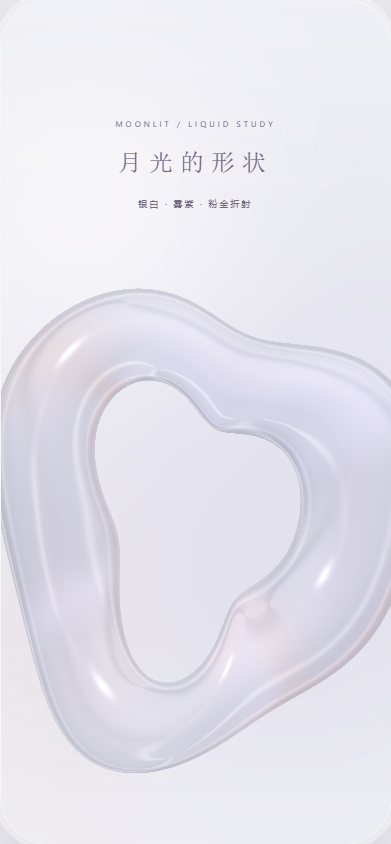
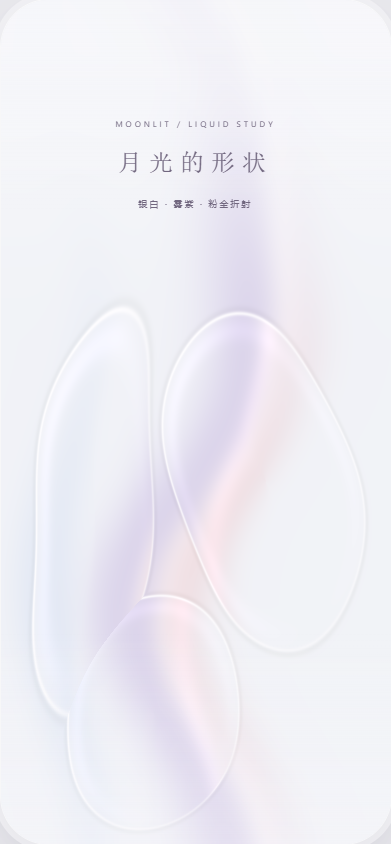
design: lighten moonlit glass into flowing translucent light sheets

diff --git a/mobile-design-reference/g-moonlight.js b/mobile-design-reference/g-moonlight.js
@@ -10,85 +10,58 @@ const fragment=`
 precision highp float;
 uniform vec2 resolution;
 uniform float phase;
-const float PI=3.14159265359;
-mat2 rotate(float a){float c=cos(a),s=sin(a);return mat2(c,-s,s,c);}
-// A sculpted, uneven toroidal sheet. The opening and folded rim provide
-// recognizable glass curvature rather than a set of blurred colour blobs.
-float field(vec3 p){
- p.y+=.52;
- p.xy=rotate(-.30+.06*sin(phase))*p.xy;
- p.y/=1.38;
- p.x+=.10*sin(p.y*3.+phase);
- float a=atan(p.y,p.x);
- float ring=.72+.12*sin(a*3.+.4+ .22*sin(phase))+.065*cos(a*2.-.3);
- float thick=.235+.065*sin(a*2.+1.+.3*cos(phase));
- float z=p.z+.16*sin(a*2.+.7)+.07*cos(a*3.+phase);
- return (length(vec2(length(p.xy)-ring,z*.84))-thick)*.72;
+mat2 rot(float a){float c=cos(a),s=sin(a);return mat2(c,-s,s,c);}
+float sheet(vec2 p,vec2 center,vec2 size,float angle){
+ p=rot(angle)* (p-center);
+ p.x+=.065*sin(p.y*2.8+phase)*sin(p.y*1.4+.6);
+ return (length(p/size)-1.)*min(size.x,size.y);
 }
-vec3 normalAt(vec3 p){vec2 e=vec2(.002,0.);return normalize(vec3(field(p+e.xyy)-field(p-e.xyy),field(p+e.yxy)-field(p-e.yxy),field(p+e.yyx)-field(p-e.yyx)));}
-vec3 backdrop(vec2 p){
- vec3 c=vec3(.936,.941,.962);
- float violet=exp(-dot((p-vec2(.45,-.5))*vec2(.7,.55),(p-vec2(.45,-.5))*vec2(.7,.55)));
- c=mix(c,vec3(.84,.82,.90),violet*.48);
- float pearl=exp(-dot(p-vec2(-.55,1.1),p-vec2(-.55,1.1))*1.4);
- c=mix(c,vec3(.989,.982,.991),pearl*.75);
- float gold=exp(-dot((p-vec2(-.7,-1.3))*vec2(2.,1.),(p-vec2(-.7,-1.3))*vec2(2.,1.)));
- c=mix(c,vec3(.925,.849,.828),gold*.27);
- return c;
+float surface(vec2 p){
+ float a=sheet(p,vec2(-.50,-.46),vec2(.30,1.04),-.13+.025*sin(phase));
+ float b=sheet(p,vec2(.37,-.30),vec2(.46,.87),.18+.03*cos(phase));
+ float c=sheet(p,vec2(-.20,-1.49),vec2(.44,.60),-.32+.025*cos(phase));
+ return min(a,min(b,c));
 }
-// Procedural studio illumination: broad pearl panels, a narrow silver strip,
-// and a small rose/champagne panel; all reflected on the curved surface.
-vec3 environment(vec3 r){
- float a=atan(r.z,r.x),h=r.y;
- vec3 c=mix(vec3(.51,.54,.65),vec3(.98,.976,.99),smoothstep(-.7,.7,h));
- float strip=pow(.5+.5*cos(a*3.+h*2.+.09*sin(phase)),18.);
- c=mix(c,vec3(1.),strip*.85);
- float dark=pow(.5+.5*cos(a*2.-h*3.+1.),10.);
- c=mix(c,vec3(.40,.42,.53),dark*.46);
- float rose=exp(-pow((a+.9)*2.2,2.)-pow((h+.35)*2.,2.));
- c=mix(c,vec3(.92,.76,.72),rose*.80);
- float lavender=exp(-pow((a-1.8)*1.4,2.)-pow(h*1.7,2.));
- c=mix(c,vec3(.76,.71,.85),lavender*.60);
+vec3 lightField(vec2 p){
+ vec3 c=vec3(.946,.951,.969);
+ float path=.20+.29*sin(p.y*1.65+.23*sin(phase))+.08*cos(p.y*3.3-.17*cos(phase));
+ float d=p.x-path;
+ float violet=exp(-pow((d+.16)*4.1,2.));
+ float silver=exp(-pow((d-.04)*10.,2.));
+ float rose=exp(-pow((d-.11)*6.5,2.))*exp(-pow((p.y+.65)*.85,2.));
+ c=mix(c,vec3(.77,.71,.87),violet*.48);
+ c=mix(c,vec3(.98,.967,.983),silver*.61);
+ c=mix(c,vec3(.94,.78,.77),rose*.36);
+ float left=-.66+.14*sin(p.y*2.1+.20*cos(phase));
+ float fold=exp(-pow((p.x-left)*7.,2.))*exp(-pow((p.y+1.)*.7,2.));
+ c=mix(c,vec3(.80,.85,.94),fold*.36);
  return c;
 }
 void main(){
- vec2 uv=(gl_FragCoord.xy*2.-resolution.xy)/resolution.y;
- uv*=2.15;
- vec3 color=backdrop(uv);
- vec3 origin=vec3(uv,3.6),direction=vec3(0.,0.,-1.);
- float travel=0.;bool hit=false;
- for(int i=0;i<64;i++){vec3 p=origin+direction*travel;float d=field(p);if(d<.0015){hit=true;break;}travel+=d*.9;if(travel>6.)break;}
- if(hit){
-  vec3 p=origin+direction*travel,n=normalAt(p);
-  float facing=clamp(dot(n,-direction),0.,1.);
-  float fresnel=.045+.955*pow(1.-facing,3.6);
-  vec3 refracted=refract(direction,n,1./1.46);
-  float thickness=.32+.30*facing;
-  vec2 lens=uv+refracted.xy*(.65+thickness)+n.xy*.10;
-  vec3 transmission=backdrop(lens);
-  // Rear-surface reflection and a softly distorted pearl ribbon inside glass.
-  vec3 inside=environment(normalize(vec3(refracted.xy*.7,-refracted.z)));
-  transmission=mix(transmission,inside,.23);
-  float ribbon=exp(-pow((lens.x*.85+lens.y*.52+.37+.025*sin(phase))*8.,2.));
-  transmission=mix(transmission,vec3(.93,.80,.77),ribbon*.32);
-  float innerSilver=pow(.5+.5*sin(lens.y*4.+lens.x*2.),12.);
-  transmission+=vec3(.045,.045,.06)*innerSilver;
-  vec3 reflected=environment(reflect(direction,n));
-  color=mix(transmission,reflected,.16+fresnel*.66);
-  float rim=pow(1.-facing,8.);
-  float innerEdge=exp(-pow((facing-.32)*18.,2.));
-  color=mix(color,vec3(.71,.70,.79),innerEdge*.20);
-  float seam=exp(-pow((facing-.48)*24.,2.));
-  color+=vec3(.055,.049,.045)*seam;
-  color=mix(color,vec3(.99,.985,1.),rim*.72);
-  vec3 light=normalize(vec3(-.65,.85,1.4));
-  float spec=pow(max(dot(reflect(direction,n),light),0.),90.);
-  color+=vec3(.17)*spec;
-  float contour=pow(1.-facing,2.);
-  color-=vec3(.15,.14,.13)*contour*(1.-rim);
- }
- // Subtle vignette for spatial depth, without a full-screen blur overlay.
- color-=.018*pow(length(uv)*.32,2.);
+ vec2 p=(gl_FragCoord.xy*2.-resolution.xy)/resolution.y*2.15;
+ vec3 color=lightField(p);
+ float d=surface(p);
+ vec2 e=vec2(.003,0.);
+ vec2 grad=normalize(vec2(surface(p+e.xy)-surface(p-e.xy),surface(p+e.yx)-surface(p-e.yx)));
+ float cover=1.-smoothstep(-.002,.005,d);
+ // Thin optical skin: essentially clear centres, stronger refraction only
+ // at the curved edges. There is no opaque mass or thick toroidal body.
+ float bend=exp(-max(-d,0.)*9.);
+ vec2 lens=p+grad*(.025+.115*bend)+vec2(.018*sin(p.y*3.+phase),0.);
+ vec3 through=lightField(lens);
+ color=mix(color,through,cover*.82);
+ float innerGlow=exp(-pow((d+.045)*34.,2.));
+ float edge=exp(-pow(d*185.,2.));
+ float shade=exp(-pow((d-.011)*100.,2.));
+ float illumination=.5+.5*dot(grad,normalize(vec2(-.6,.8)));
+ color-=vec3(.08,.078,.09)*shade*.34;
+ color=mix(color,vec3(1.,.995,1.),edge*(.40+.48*illumination));
+ color+=vec3(.036,.029,.04)*innerGlow*cover*illumination;
+ // A refracted ribbon of light inside each transparent sheet.
+ float streak=exp(-pow((lens.x-.23-.27*sin(lens.y*1.65+.23*sin(phase)))*15.,2.));
+ color+=vec3(.034,.02,.027)*streak*cover;
+ float top=smoothstep(.4,1.9,p.y);
+ color=mix(color,vec3(.967,.970,.981),top*.8);
  gl_FragColor=vec4(clamp(color,0.,1.),1.);
 }`;
 function shader(type,source){const s=gl.createShader(type);gl.shaderSource(s,source);gl.compileShader(s);if(!gl.getShaderParameter(s,gl.COMPILE_STATUS))throw Error(gl.getShaderInfoLog(s));return s;}

diff --git a/mobile-design-reference/g-moonlight.html b/mobile-design-reference/g-moonlight.html
@@ -18,7 +18,7 @@
 <aside class="editorial"><p class="eyebrow">YEXUAN / REVERIE</p><h1>冷白月光<span>Liquid Glass</span></h1><p class="intro">将月光，留在掌心。<br>一场轻盈、安静的梦境。</p><div class="palette" aria-label="月光银白、浅雾紫、冷灰蓝、玫瑰金"><i></i><i></i><i></i><i></i></div><p class="edition">VISUAL STUDY &nbsp; / &nbsp; 07<br>独立视觉概念 · 无真实连接</p></aside>
 <section class="device" aria-label="叶瑄梦境聊天视觉样机">
 <canvas id="liquid" aria-label="缓慢流动的冷白月光玻璃背景"></canvas>
-<div class="fallback" aria-hidden="true"><svg viewBox="0 0 390 844" preserveAspectRatio="xMidYMid slice"><defs><linearGradient id="body" x1="0" y1="0" x2="1" y2="1"><stop stop-color="#fff"/><stop offset=".32" stop-color="#cfc7de" stop-opacity=".45"/><stop offset=".52" stop-color="#faf9fc"/><stop offset=".72" stop-color="#e8c9c5" stop-opacity=".6"/><stop offset="1" stop-color="#bac8d9"/></linearGradient></defs><path d="M230 236C393 214 418 367 352 456C296 522 366 615 283 730C213 822 21 739 33 615C44 519 147 554 98 429C65 333 129 235 230 236Z" fill="url(#body)" stroke="#fff" stroke-width="2"/><path d="M241 251C368 256 394 364 323 456C272 520 328 641 260 717" fill="none" stroke="#fff" stroke-opacity=".7" stroke-width="8"/></svg></div>
+<div class="fallback" aria-hidden="true"><svg viewBox="0 0 390 844" preserveAspectRatio="xMidYMid slice"><defs><linearGradient id="body" x1="0" y1="0" x2="1" y2="1"><stop stop-color="#fff"/><stop offset=".32" stop-color="#cfc7de" stop-opacity=".45"/><stop offset=".52" stop-color="#faf9fc"/><stop offset=".72" stop-color="#e8c9c5" stop-opacity=".6"/><stop offset="1" stop-color="#bac8d9"/></linearGradient></defs><ellipse cx="105" cy="514" rx="52" ry="204" transform="rotate(7 105 514)" fill="url(#body)" fill-opacity=".2" stroke="#fff" stroke-opacity=".8" stroke-width="1"/><ellipse cx="266" cy="485" rx="88" ry="172" transform="rotate(-12 266 485)" fill="url(#body)" fill-opacity=".23" stroke="#fff" stroke-opacity=".8" stroke-width="1"/><ellipse cx="154" cy="710" rx="75" ry="110" transform="rotate(15 154 710)" fill="url(#body)" fill-opacity=".25" stroke="#fff" stroke-opacity=".8" stroke-width="1"/></svg></div>
 <div class="ambient" aria-hidden="true"></div>
 <div class="phone-ui" id="phoneUI">
 <div class="statusbar"><span>9:41</span><div><svg viewBox="0 0 18 12" class="signal" aria-hidden="true"><path d="M1 9v2h2V9zm4-3v5h2V6zm4-3v8h2V3zm4-3v11h2V0z" fill="currentColor" stroke="none"/></svg><svg viewBox="0 0 18 14" aria-hidden="true"><path d="M2 5a11 11 0 0 1 14 0M5 8a6 6 0 0 1 8 0M8 11h2"/></svg><span class="battery"></span></div></div>

diff --git a/mobile-design-reference/moonlight-README.md b/mobile-design-reference/moonlight-README.md
@@ -4,9 +4,9 @@
 
 右侧（手机右上）可切换纯背景、暂停流动。气泡按压缩放，卡片可切换状态，输入聚焦时玻璃边缘增亮。输入和发送仅提供视觉反馈，不联网、不存储、不生成消息。
 
-背景使用 WebGL SDF 曲面、光线步进、法线、Fresnel、折射环境采样和局部珍珠反射。前景卡片单独使用 backdrop-filter，文字深灰紫，不对整屏做模糊。24 秒相位循环；最多 24 帧/秒，分辨率上限 420 像素宽。页面隐藏、系统减少动态或手动暂停时停止渲染。无外部图片、字体或付费素材。WebGL 不可用时显示静态 SVG 降级。
+背景按用户提供的表盘参考修订：WebGL 二维有机曲面距离场、边缘梯度法线、透明薄层的 UV 折射采样、连续雾紫/粉金光带与细银白边缘。去除旧版厚重环状实体；不再采用三维光线步进。前景卡片单独使用 backdrop-filter，文字深灰紫，不对整屏做模糊。24 秒相位循环；最多 24 帧/秒，分辨率上限 420 像素宽。页面隐藏、系统减少动态或手动暂停时停止渲染。无外部图片、字体或付费素材。WebGL 不可用时显示静态 SVG 降级。
 
-光学限制：程序环境透射近似，不是物理路径追踪，没有真实多次折射、完整背面光线追踪或物理焦散。前景是背景模糊与边缘高光，没有 Apple 原生透镜重映射。参考原则：https://developer.apple.com/videos/play/wwdc2025/219/
+光学限制：二维曲面光场透射近似，不是物理路径追踪，没有真实多次折射、完整背面光线追踪或物理焦散。前景是背景模糊与边缘高光，没有 Apple 原生透镜重映射。参考原则：https://developer.apple.com/videos/play/wwdc2025/219/
 
 验收：2026-10-10 Chrome headless / SwiftShader，file 协议实际渲染并目视检查截图。validation.json：零页面错误、零外部请求；320/360/390/430 无横向溢出；减少动态时截图不变，恢复后变化；纯背景下聊天层 inert。截图包含 preview、background、desktop、mobile、focus。
 

diff --git a/cc-tasks/2026-10-10-moonlight-demo.md b/cc-tasks/2026-10-10-moonlight-demo.md
@@ -7,3 +7,6 @@
 - [x] 完成纯背景、点击、输入焦点与减少动态。证据：focus.png、validation.json 的 inert、card、send、reducedFramesEqual=true。验收：浏览器操作、系统 reduce 模拟。
 - [x] 检查响应式、离线与浏览器错误。证据：validation.json errors=[]、externalRequests=[]；320/360/390/430 无横向溢出；截图已目视检查。验收：窄屏、桌面、file 打开，无外部请求。
 - [x] 提供说明和截图。证据：moonlight-README.md、5 张实际浏览器截图及 g-moonlight-validation.json；独立提交见本文件 git log。真机性能/原生验收 not-run；本任务为视觉参考。
+## 参考图修订：流动光玻璃
+- [x] 去除厚重环状实体，改为透明薄曲面和流动光带；保留冷白配色。证据：g-moonlight.js 新 surface/lightField 与 background 截图。原始三维 SDF 实现已被本修订替代。
+- [x] 重拍并目视检查背景和聊天截图，重验交互后独立提交。证据：5 张截图已更新，validation.json 全部检查再次通过；真机性能仍 not-run。
